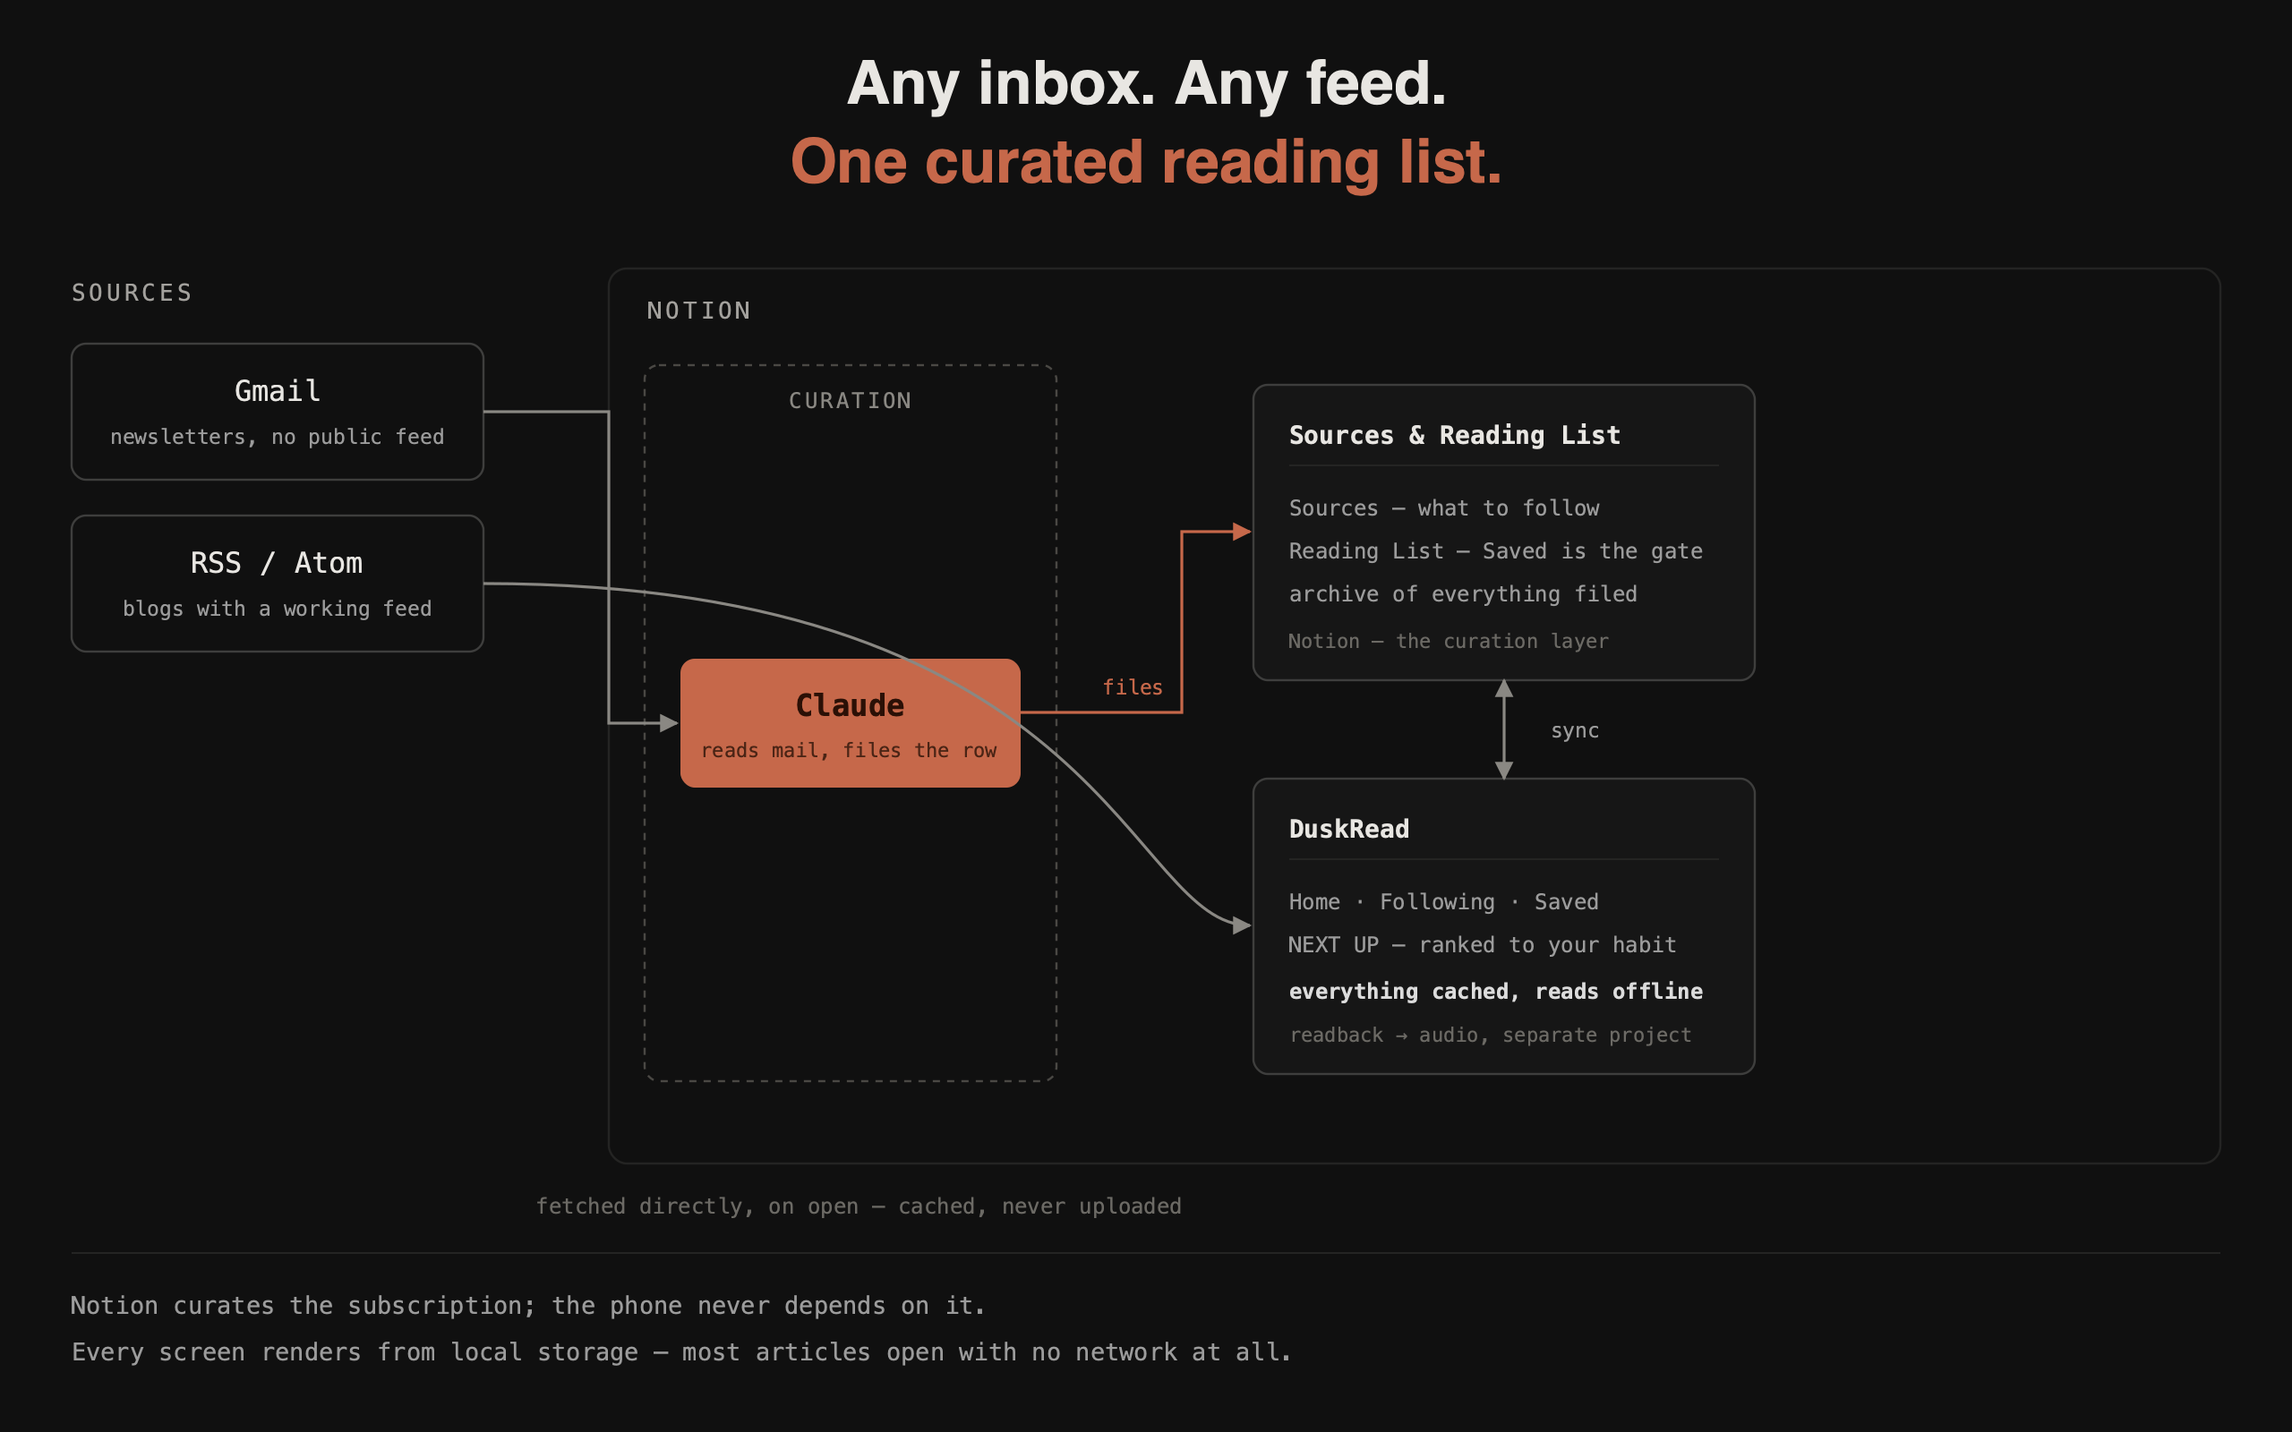
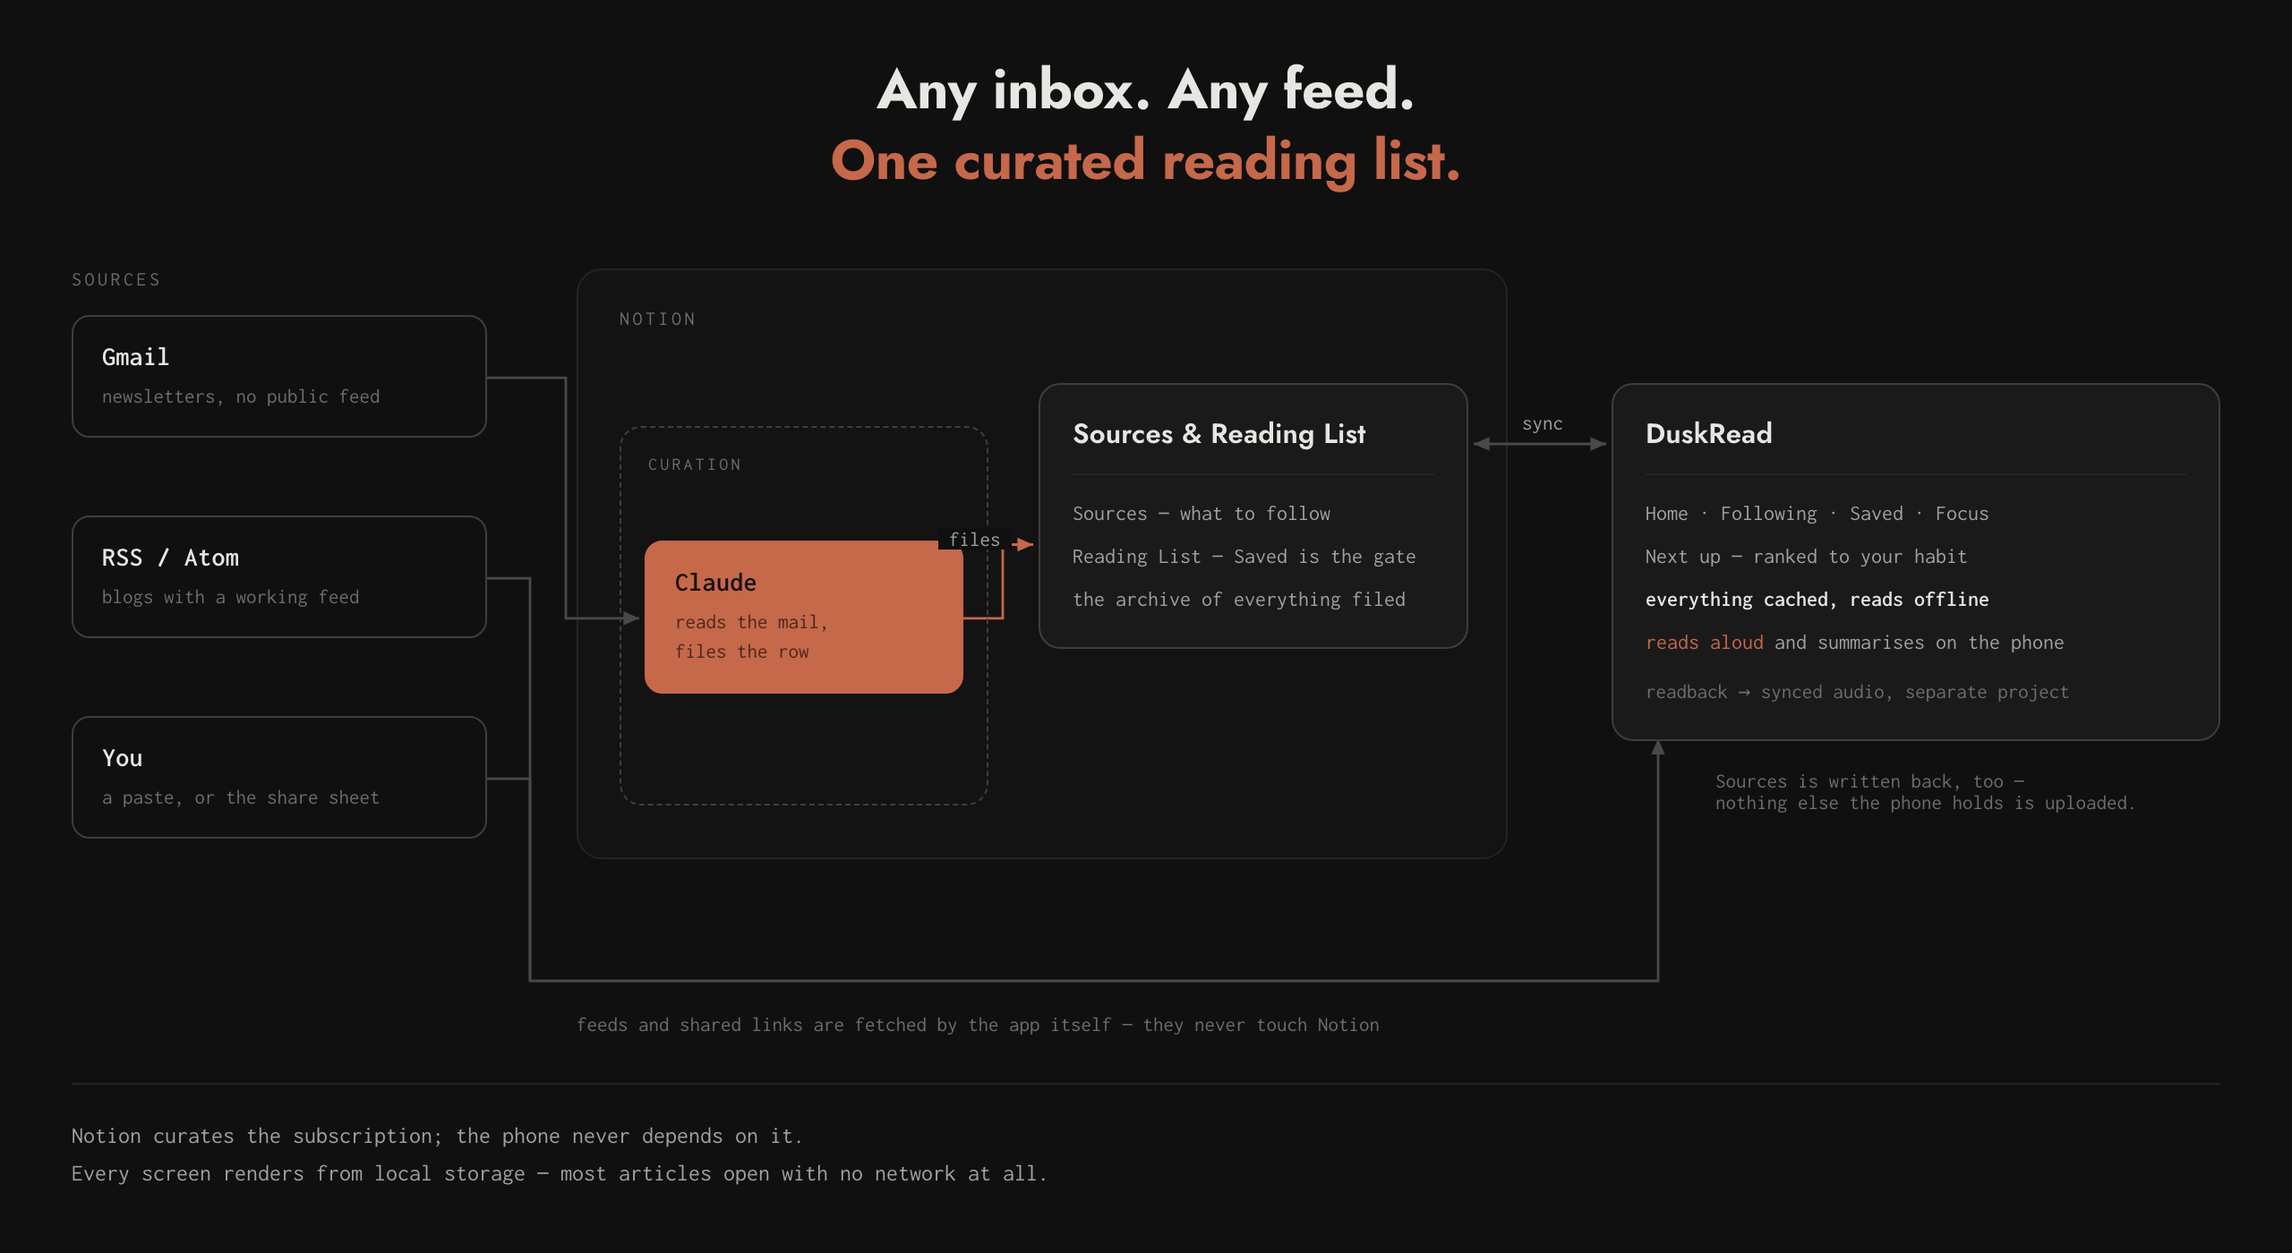
Redraw the README flow diagram, and commit its source
The picture had fallen behind the app: it showed two sources and implied
audio only ever came from the separate readback project. It now carries
the third source — a paste or the share sheet, which reaches the app
directly and never touches Notion — and says the phone reads aloud and
summarises on its own.

Notion's frame no longer encloses DuskRead, which was the one thing in
the old drawing that was plainly wrong: the phone is a peer that syncs
with Notion, not something inside it.

The PNG had no source, so correcting it meant redrawing it. There is
now notion-flow.html beside it, in the Paper Black tokens, with the
connectors drawn from the boxes' measured positions and the render
command in a comment at the top.

Claude-Session: https://claude.ai/code/session_0154KK5h57ZxsZ38cwYUvMvC

diff --git a/docs/media/notion-flow.html b/docs/media/notion-flow.html
@@ -1,0 +1,287 @@
+<!DOCTYPE html>
+<meta charset="utf-8">
+<title>DuskRead — curation flow</title>
+<!--
+  Source for notion-flow.png, the diagram in README.md. Committed so the
+  picture can be corrected rather than redrawn: the PNG had already fallen a
+  release behind the app it describes.
+
+  Rendered at twice size, so the type in it survives a retina screen:
+
+    "/Applications/Google Chrome.app/Contents/MacOS/Google Chrome" \
+      --headless --disable-gpu --hide-scrollbars \
+      --window-size=1280,700 --force-device-scale-factor=2 \
+      --screenshot=docs/media/notion-flow.png \
+      --virtual-time-budget=4000 docs/media/notion-flow.html
+
+  Colours are the Paper Black scheme's own, mirrored from ui/theme/Theme.kt —
+  the same rule the landing page follows. The connectors are drawn by the
+  script at the foot from the boxes' measured positions, so moving a box does
+  not mean rewriting a path by hand.
+-->
+<link rel="preconnect" href="https://fonts.googleapis.com">
+<link rel="preconnect" href="https://fonts.gstatic.com" crossorigin>
+<link rel="stylesheet" href="https://fonts.googleapis.com/css2?family=Inconsolata:wght@400;500;600&family=Jost:wght@400;500;600;700&display=swap">
+<style>
+  :root {
+    --bg: #101010;
+    --surface: #1a1a1a;
+    --ink: #e8e6e2;
+    --muted: #a3a19d;
+    --faint: #6f6d6a;
+    --line: #242423;
+    --line-firm: #3e3e3d;
+    --accent: #c6684a;
+    --ui: "Jost", ui-sans-serif, system-ui, sans-serif;
+    --data: "Inconsolata", ui-monospace, Menlo, monospace;
+  }
+
+  * { box-sizing: border-box; }
+
+  html, body { margin: 0; padding: 0; }
+
+  body {
+    width: 1280px; height: 700px; overflow: hidden;
+    background: var(--bg); color: var(--ink);
+    font-family: var(--data);
+    -webkit-font-smoothing: antialiased;
+  }
+
+  #stage { position: relative; width: 1280px; height: 700px; }
+
+  /* The connector layer sits under the boxes: a line that ends a few pixels
+     inside a card is hidden by it rather than drawn across its text. */
+  #wires { position: absolute; inset: 0; z-index: 0; pointer-events: none; }
+
+  .layer { position: absolute; z-index: 1; }
+
+  h1 {
+    position: absolute; top: 30px; left: 0; right: 0; margin: 0;
+    font-family: var(--ui); font-weight: 700; font-size: 31px;
+    line-height: 1.28; letter-spacing: -0.01em; text-align: center;
+  }
+  h1 .two { color: var(--accent); }
+
+  .grouplabel {
+    font-family: var(--data); font-size: 11px; letter-spacing: 0.16em;
+    text-transform: uppercase; color: var(--faint);
+  }
+
+  .card {
+    position: absolute; z-index: 1;
+    border: 1px solid var(--line-firm); border-radius: 10px;
+    background: var(--bg); padding: 14px 16px;
+  }
+  .card .name {
+    font-family: var(--data); font-size: 15px; font-weight: 600;
+    letter-spacing: 0.01em; color: var(--ink);
+  }
+  .card .sub {
+    margin-top: 6px; font-family: var(--data); font-size: 11.5px;
+    color: var(--faint); line-height: 1.45;
+  }
+
+  /* Notion's own frame. Everything Notion holds sits inside it; the phone
+     does not, which is the whole claim the picture is making. */
+  #notion {
+    /* Behind the connector layer: a line that runs under Notion's frame — the
+       feeds bypassing it entirely — has to stay visible where it crosses. */
+    position: absolute; z-index: -1;
+    border: 1px solid var(--line); border-radius: 14px;
+    background: #131313;
+  }
+  #curation {
+    position: absolute; z-index: 1;
+    border: 1px dashed var(--line-firm); border-radius: 12px;
+  }
+
+  #claude {
+    background: var(--accent); border-color: var(--accent);
+  }
+  #claude .name { color: #17100d; }
+  #claude .sub { color: rgba(23, 16, 13, 0.72); }
+
+  .panel {
+    position: absolute; z-index: 1;
+    border: 1px solid var(--line-firm); border-radius: 12px;
+    background: var(--surface); padding: 16px 18px 18px;
+  }
+  .panel h2 {
+    margin: 0 0 12px; padding-bottom: 11px;
+    border-bottom: 1px solid var(--line);
+    font-family: var(--ui); font-weight: 600; font-size: 15.5px;
+    letter-spacing: 0.005em;
+  }
+  .panel p {
+    margin: 0 0 6px; font-family: var(--data); font-size: 12px;
+    line-height: 1.5; color: var(--muted);
+  }
+  .panel p:last-child { margin-bottom: 0; }
+  .panel p.strong { color: var(--ink); font-weight: 600; }
+  .panel p.aside { margin-top: 10px; color: var(--faint); font-size: 11.5px; }
+  .panel p .sound { color: var(--accent); }
+
+  .wirelabel {
+    position: absolute; z-index: 1;
+    font-family: var(--data); font-size: 11.5px; color: var(--muted);
+    background: var(--bg); padding: 0 6px;
+  }
+  .wirelabel.on { color: var(--accent); }
+
+  .note {
+    position: absolute; font-family: var(--data); font-size: 11.5px;
+    color: var(--faint);
+  }
+
+  footer {
+    position: absolute; left: 40px; right: 40px; bottom: 34px;
+    padding-top: 18px; border-top: 1px solid var(--line);
+    font-family: var(--data); font-size: 13px; line-height: 1.62;
+    color: var(--muted);
+  }
+</style>
+
+<div id="stage">
+  <svg id="wires" width="1280" height="700" aria-hidden="true"></svg>
+
+  <h1>Any inbox. Any feed.<br><span class="two">One curated reading list.</span></h1>
+
+  <div class="layer grouplabel" style="left:40px; top:150px">Sources</div>
+
+  <div class="card" id="gmail" style="left:40px; top:176px; width:232px">
+    <div class="name">Gmail</div>
+    <div class="sub">newsletters, no public feed</div>
+  </div>
+
+  <div class="card" id="rss" style="left:40px; top:288px; width:232px">
+    <div class="name">RSS / Atom</div>
+    <div class="sub">blogs with a working feed</div>
+  </div>
+
+  <div class="card" id="you" style="left:40px; top:400px; width:232px">
+    <div class="name">You</div>
+    <div class="sub">a paste, or the share sheet</div>
+  </div>
+
+  <div id="notion" style="left:322px; top:150px; width:520px; height:330px"></div>
+  <div class="layer grouplabel" style="left:346px; top:172px">Notion</div>
+
+  <div id="curation" style="left:346px; top:238px; width:206px; height:212px"></div>
+  <div class="layer grouplabel" style="left:362px; top:254px; font-size:10px">Curation</div>
+
+  <div class="card" id="claude" style="left:360px; top:302px; width:178px">
+    <div class="name">Claude</div>
+    <div class="sub">reads the mail,<br>files the row</div>
+  </div>
+
+  <div class="panel" id="notiondb" style="left:580px; top:214px; width:240px">
+    <h2>Sources &amp; Reading&nbsp;List</h2>
+    <p>Sources &mdash; what to follow</p>
+    <p>Reading List &mdash; Saved is the gate</p>
+    <p>the archive of everything filed</p>
+  </div>
+
+  <div class="panel" id="app" style="left:900px; top:214px; width:340px">
+    <h2>DuskRead</h2>
+    <p>Home &middot; Following &middot; Saved &middot; Focus</p>
+    <p>Next up &mdash; ranked to your habit</p>
+    <p class="strong">everything cached, reads offline</p>
+    <p><span class="sound">reads aloud</span> and summarises on the phone</p>
+    <p class="aside">readback &rarr; synced audio, separate project</p>
+  </div>
+
+  <div class="wirelabel" id="filesLabel">files</div>
+  <div class="wirelabel" id="syncLabel">sync</div>
+  <div class="note" id="syncNote" style="width:282px">Sources is written back, too &mdash;<br>nothing else the phone holds is uploaded.</div>
+
+  <div class="note" style="left:322px; top:566px">
+    feeds and shared links are fetched by the app itself &mdash; they never touch Notion
+  </div>
+
+  <footer>
+    Notion curates the subscription; the phone never depends on it.<br>
+    Every screen renders from local storage &mdash; most articles open with no network at all.
+  </footer>
+</div>
+
+<script>
+  // Connectors, measured rather than hand-plotted. Each one leaves a box's
+  // edge, turns once at a given x or y, and arrives at the next box's edge —
+  // the orthogonal shape the rest of the picture is drawn in.
+  (function () {
+    var svg = document.getElementById('wires');
+    var NS = 'http://www.w3.org/2000/svg';
+    var GREY = '#4a4948';
+    var ACCENT = '#c6684a';
+
+    var defs = document.createElementNS(NS, 'defs');
+    [['head-grey', GREY], ['head-accent', ACCENT]].forEach(function (pair) {
+      var m = document.createElementNS(NS, 'marker');
+      m.setAttribute('id', pair[0]);
+      m.setAttribute('viewBox', '0 0 10 10');
+      m.setAttribute('refX', '9'); m.setAttribute('refY', '5');
+      m.setAttribute('markerWidth', '7'); m.setAttribute('markerHeight', '7');
+      m.setAttribute('orient', 'auto-start-reverse');
+      var p = document.createElementNS(NS, 'path');
+      p.setAttribute('d', 'M 0 1 L 9 5 L 0 9 z');
+      p.setAttribute('fill', pair[1]);
+      m.appendChild(p); defs.appendChild(m);
+    });
+    svg.appendChild(defs);
+
+    function box(id) {
+      var r = document.getElementById(id).getBoundingClientRect();
+      return { l: r.left, r: r.right, t: r.top, b: r.bottom, cx: r.left + r.width / 2, cy: r.top + r.height / 2 };
+    }
+
+    function draw(d, colour, both) {
+      var p = document.createElementNS(NS, 'path');
+      p.setAttribute('d', d);
+      p.setAttribute('fill', 'none');
+      p.setAttribute('stroke', colour);
+      p.setAttribute('stroke-width', '1.4');
+      p.setAttribute('marker-end', 'url(#' + (colour === ACCENT ? 'head-accent' : 'head-grey') + ')');
+      if (both) p.setAttribute('marker-start', 'url(#' + (colour === ACCENT ? 'head-accent' : 'head-grey') + ')');
+      svg.appendChild(p);
+    }
+
+    // Left edge to right edge, turning at the midpoint between them.
+    function across(from, to, turn) {
+      var a = box(from), b = box(to);
+      var x = turn === undefined ? (a.r + b.l) / 2 : turn;
+      draw('M ' + a.r + ' ' + a.cy + ' H ' + x + ' V ' + b.cy + ' H ' + (b.l - 3), GREY);
+    }
+
+    var gmail = box('gmail'), claude = box('claude'), db = box('notiondb'), app = box('app');
+    var rss = box('rss'), you = box('you');
+
+    // Gmail into Claude.
+    across('gmail', 'claude', 316);
+
+    // Claude files the row: the one accent line in the picture, because it is
+    // the one step nobody performs by hand.
+    draw('M ' + claude.r + ' ' + claude.cy + ' H ' + (claude.r + 22) +
+         ' V ' + db.cy + ' H ' + (db.l - 3), ACCENT);
+
+    // Notion and the phone, both ways.
+    draw('M ' + (db.r + 3) + ' ' + (db.t + 34) + ' H ' + (app.l - 3), GREY, true);
+
+    // Feeds and shared links go straight to the phone, under everything Notion
+    // holds rather than through it.
+    var lane = 548;
+    draw('M ' + rss.r + ' ' + rss.cy + ' H ' + 296 + ' V ' + lane +
+         ' H ' + (app.l + 26) + ' V ' + (app.b + 3), GREY);
+    draw('M ' + you.r + ' ' + you.cy + ' H ' + 296 + ' V ' + lane, GREY);
+    svg.lastChild.removeAttribute('marker-end');
+
+    // The two labels sit on their own lines, on the ground colour, so the
+    // wire runs behind the word rather than through it.
+    function place(el, x, y) {
+      el.style.left = Math.round(x) + 'px';
+      el.style.top = Math.round(y) + 'px';
+    }
+    place(document.getElementById('filesLabel'), db.l - 56, db.cy - 9);
+    place(document.getElementById('syncLabel'), (db.r + app.l) / 2 - 16, db.t + 16);
+    place(document.getElementById('syncNote'), app.l + 58, app.b + 20);
+  })();
+</script>

diff --git a/README.md b/README.md
@@ -79,7 +79,7 @@ way, the phone only pulls rows that were ticked `Saved`. Everything else
 stays archived, not shown.
 
 <p align="center">
-  <img src="docs/media/notion-flow.png" alt="Gmail and RSS feed into Claude and Notion; Notion and RSS both feed the DuskRead app, which caches everything for offline reading">
+  <img src="docs/media/notion-flow.png" alt="Three sources — Gmail, RSS feeds, and links you paste or share. Claude files the mail into Notion's Sources and Reading List, which syncs both ways with DuskRead; feeds and shared links reach the app directly, never touching Notion. The app caches everything, reads offline, and reads articles aloud on the phone">
 </p>
 
 Notion is the curation layer, not a dependency. The device works whether
@@ -88,7 +88,7 @@ creates its own databases rather than asking you to type in an ID. The full
 schema, the sync rules and the reasoning behind each of them are in
 **[docs/architecture.md](docs/architecture.md)**.
 
-**Save it however it reaches you, too.** Paste a URL into the field, or share one straight from Chrome — DuskRead is in the share sheet. Either way the row appears immediately with the host as its stand-in title, then a fetch fills in the real one behind it.
+**Save it however it reaches you, too.** Share a link straight from Chrome — DuskRead is in the share sheet — or open the paste field on Saved with **Add**. Either way the row appears immediately with the host as its stand-in title, then a fetch fills in the real one behind it.
 
 **Following a blog files it in Notion, too.** The one exception to the
 one-way pull above: `Sources` is written as well as read, so a blog followed
@@ -98,6 +98,8 @@ on the phone is already there to edit the next time you open Notion.
 
 **Almost everything opens with no network at all.** Every screen renders from local storage, and the reader tries its own cache before the wire — a feed that publishes full-content RSS is cached whole at sync time, so the article was already on the phone before you tapped it. A post that will open offline carries its own badge on the meta line, computed the same way the reader itself decides, so it never claims something it can't deliver.
 
+**Saved is a queue and a record at once.** Unread leads, and what you've read stays under its own heading rather than disappearing — filter to either, or search a title, a host or a topic. The paste field folds away behind **Add**, because most links arrive from the share sheet rather than the keyboard.
+
 The page itself stays out of the way: **Paper Black** and **Ink**, warm ink on near-black or the same layout with the hue drained out, swapped at runtime, one terracotta accent spent only to mean *there is sound here*. No chrome, no feed of unread counts — one article at a time.
 
 **Long ones get a one-tap summary first**, generated on-device by Gemini Nano so nothing leaves the phone; the control is simply absent on hardware that can't run it.
@@ -105,8 +107,10 @@ The page itself stays out of the way: **Paper Black** and **Ink**, warm ink on n
 ### Listening
 
 **The phone reads an article aloud itself**, with its own text-to-speech —
-nothing to sync, nothing to download first. It keeps playing behind whatever
-screen you open next, in the same floating bar the timer uses.
+nothing to sync, nothing to download first. The player is a face of the same
+floating bar the tabs live on, so it follows you to whatever you open next,
+including a screen that covers the tabs entirely. If a read can't happen —
+no voice installed, no engine — it says so rather than staying silent.
 
 ### Focus timer
 
